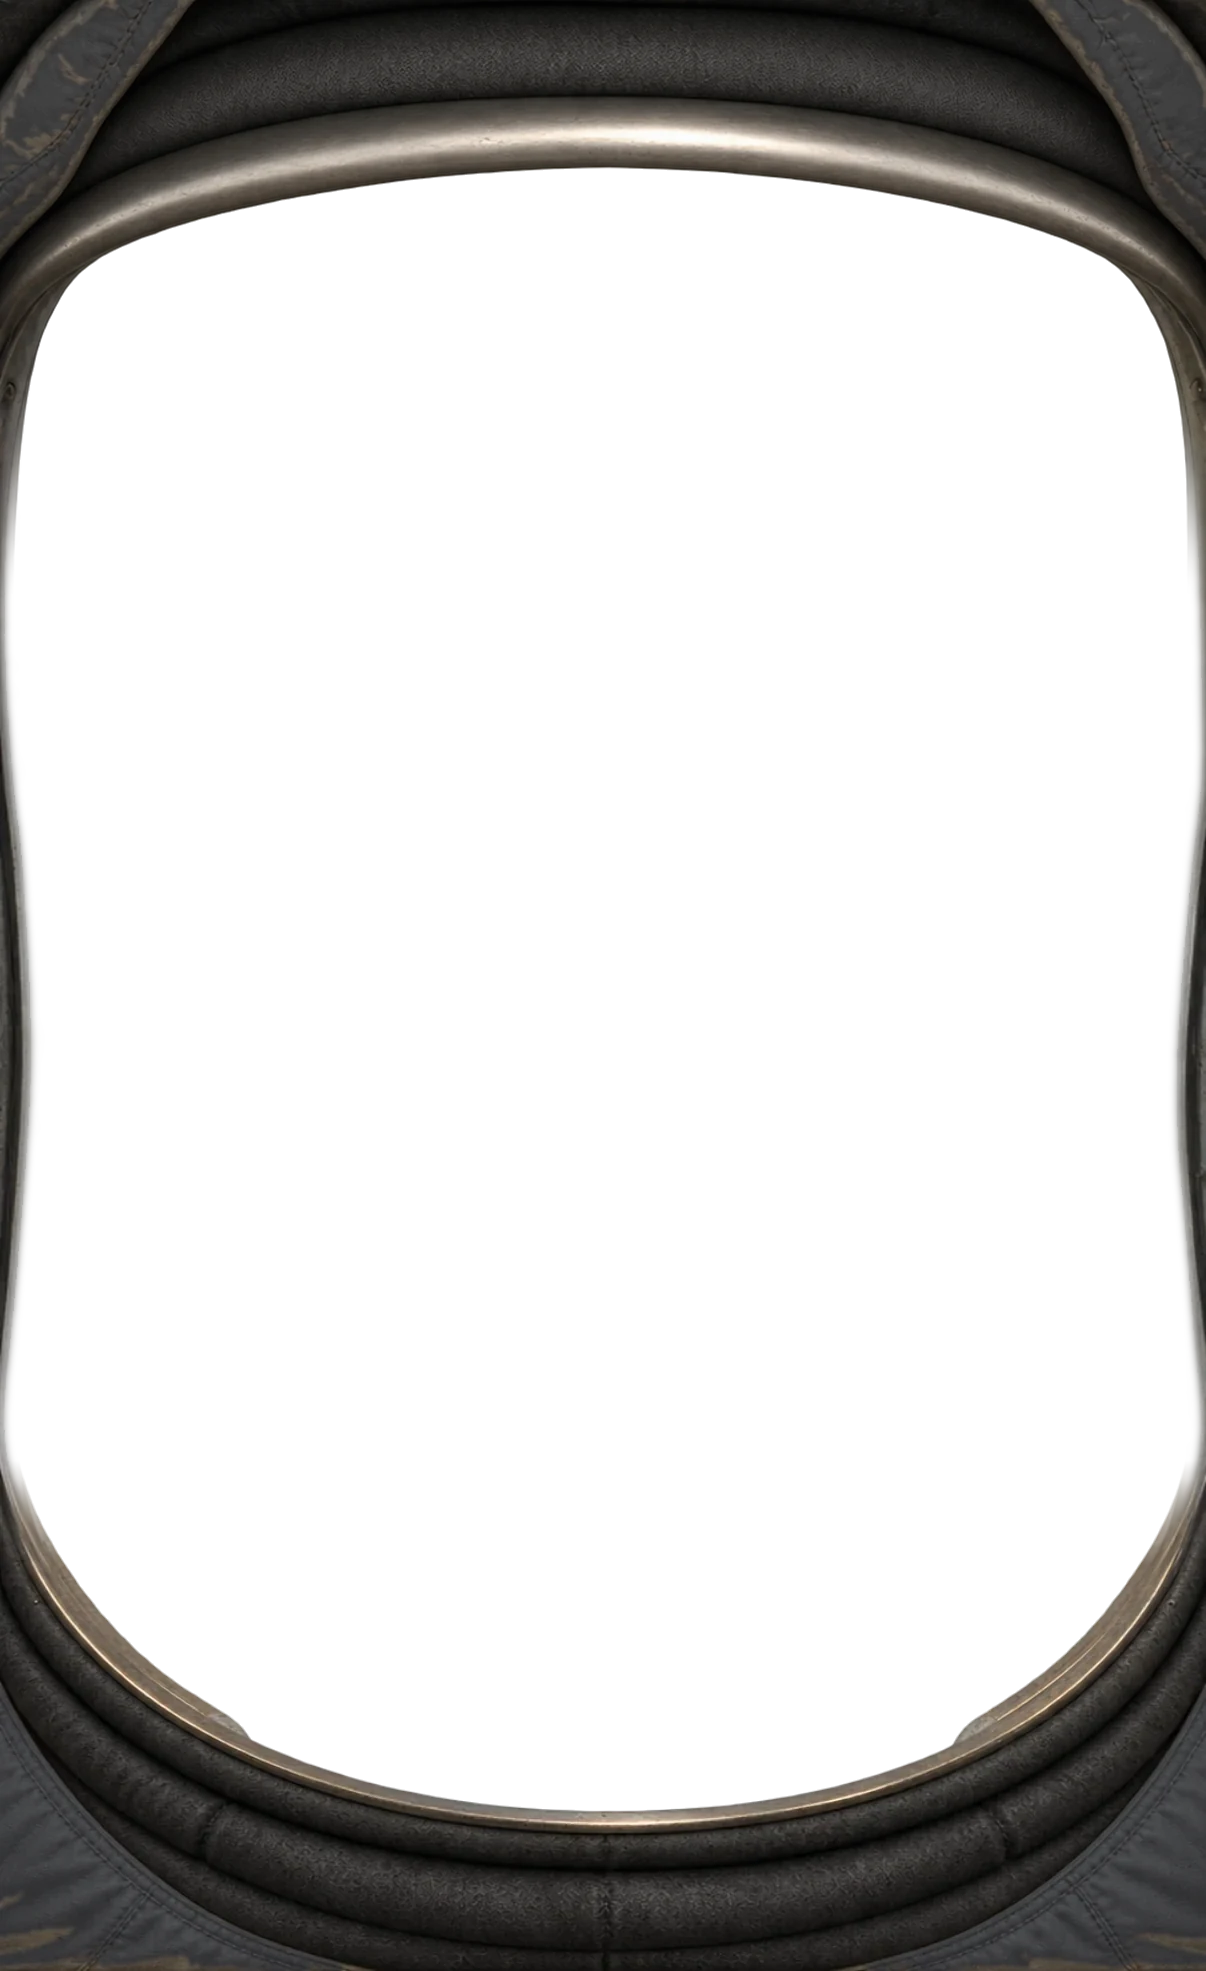
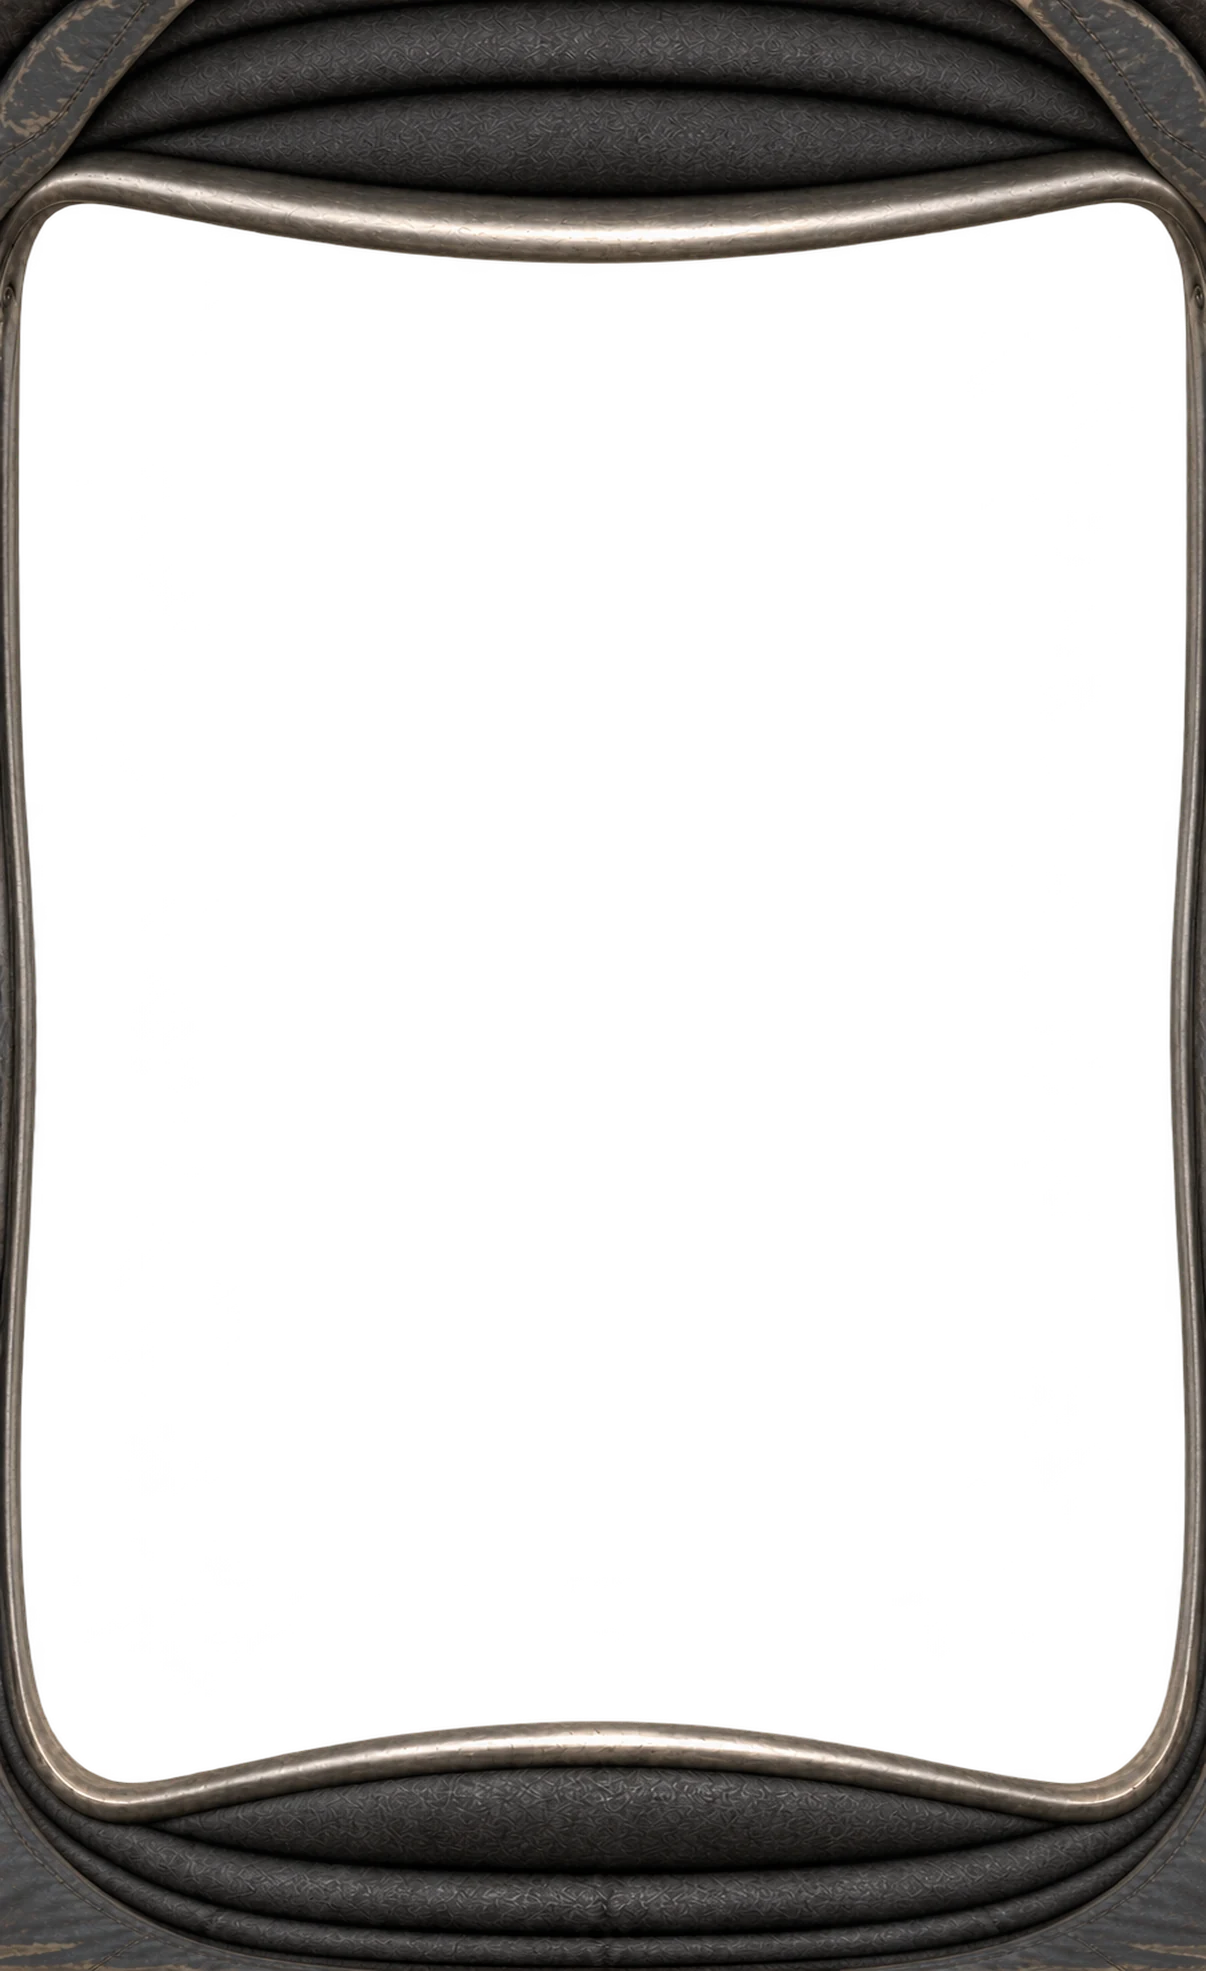
v1.0.88: The spacewalk's helmet as a wide view from inside draws it: the top rim bowing down (‿) and the bottom rim up (⌒), the sides straight (Codex J1); the right glove drawn whole round its handle to the wrist, as the new bottom rim showed its cut end; the key row under the rim fully covered (the

Changed region(s): [[0.0, 0.0, 1.0, 1.0]]

diff --git a/docs/Space-Oddity-상세기획서.md b/docs/Space-Oddity-상세기획서.md
@@ -662,6 +662,7 @@ v0.1.37, 눈으로 보지 못했던 것을 다시 찍어 보고 고친 것(`.pla
 - 2026-11-02에 우주멍 화면 왼쪽 위에 제목 로고를 작게(92px 폭) 넣었다(v0.4.61). 사용자 말: "우주멍 모드에서는 화면 상단 왼쪽에 조그맣게 로고 넣어줘".
 - 2026-11-18에 우주멍 시계, 잠들기 타이머, 배경화면 저장을 넣었다(v1.0.8). 우주멍 시계는 설정에서 켜며, 우주멍 동안 화면 위쪽에 시각과 날짜를 띄우고 화면 꺼짐을 막는다(Wake Lock). 시계는 1분마다 12픽셀 안에서 자리를 옮긴다. 잠들기는 배경 음악 칸의 단추로 15, 30, 60분을 고르며, 시간이 되면 음악과 화면이 60초에 걸쳐 잦아들고 어두워진다(검은 막 92%). 화면을 만지면 돌아온다. 배경화면은 사진 모드의 단추로, 보통 사진이 화면의 1.6배까지만 그리는 것과 달리 기기 해상도(3배까지, 한 변 4096픽셀까지)로 한 장을 그린다. "시계 자리 보기"는 잠금화면 시계가 덮는 자리를 점선으로 보인다. 시계 글씨는 세 모양(가는 글씨, 할머니 손글씨, 별빛)을 나란히 보인 뒤 사용자가 고른 할머니 수첩 손글씨(크림색)다. 코드는 GPT(Codex)가 짰고 번역과 검토는 Claude가 했다. 사용자 말: "5,6,7 해보자", "코딩은 gpt 시켜도 되지?", "나".
 - 2026-11-18에 우주멍 시계를 화면 왼쪽 위, 제목 바로 아래로 옮기고 시각과 날짜 줄을 각각 제목 폭(92픽셀)에 맞춰 글씨 크기를 정하게 했다. 우주멍 동안 우주멍 단추 옆에 배경 음악 켜기/끄기 단추를 둔다(v1.0.9). 사용자 말: "시간과 날짜를 왼쪽 상단, 제목 바로 아래로 옮기고, 폰트도 적당히 줄여서 폭을 맞춰", "우주멍에서는 배경음악 ON/OFF 버튼을 우주멍 버튼 옆에 그려줘". 날짜는 줄임 꼴로 쓴다: "11월 18일 (수)", "Wed, Nov 18", "11月18日(水)", "11月18日周三"(v1.0.10, 사용자 말: "줄임말로 쓰지").
+- 2026-11-25에 우주 유영의 헬멧 테를 다시 바꿨다(v1.0.88, assets/codex/mmu/order10.md, order11.md). 사용자가 게임 화면에 위 테는 ‿, 아래 테는 ⌒로 그려 보이며 "안에서 보면, 이렇게 되지않니?"라고 했다. 맞다: 게임은 넓은 시야각의 원근 투영이라, 머리를 둘러싼 고리는 정면이 가장 작고 옆으로 갈수록 벌어진다(광각으로 찍은 둥근 방의 천장 가장자리가 ‿). 앞서 내가 ⌒를 물은 것이 틀렸다. GPT가 위 ‿, 아래 ⌒의 J1(은근히)과 J2(뚜렷이)를 그렸고 J1을 골랐다. 새 아래 테가 오른손의 잘린 끝을 드러내어, 오른손을 손잡이를 쥔 장갑으로 손목까지 이어 그렸다(손 그림도 바뀜, 왼손과 압력계는 그대로). 단추 줄 자리는 완전히 막고, 화면 가운데의 옅은 비침은 지웠다. 사용자 말: "안에서 보면, 이렇게 되지않니?", "다시 맡겨", "J1로 오른손 이어 그리라고 해", "들여".
 - 2026-11-25에 "줄 하나 없이 우주 유영"의 헬멧 위쪽 테를 GPT(Codex)가 다시 그린 것으로 바꿨다(v1.0.87, assets/codex/mmu/order8.md, order9.md). 사용자가 "헬멧이 안에서 볼 때에 볼록해야하는데, 반대 같다"고 했다. 그림을 위아래로 비튼 세 시험과 첫 두 안(H1, H2)은 "셋 다 이상해", "오목해보여"였다. 휘는 모양은 ⌒ 그대로 두고, 금속 테를 굵은 둥근 관으로, 눈 쪽을 향한 아랫면이 밝게(아랫면 밝기 221, 윗면 61) 다시 그린 I1을 골랐다. 위쪽(y 620 위)만 바뀌고 양옆, 아래 테, 손, 압력계는 화소 하나 다르지 않다. 사용자 말: "gpt한테 다시 그리라고 해", "A", "I1 들여".
 - 2026-11-25에 오늘의 팁에서 금색 "오늘의 팁"을 윗줄에 따로 두고 팁 글은 아랫줄부터 쓰게 했다(v1.0.86). 한 줄로 붙어 "오늘의 팁 추천 우주멍 코스…"처럼 이어 읽혔다. 사용자 말: "오늘의 팁 추천. 우주멍 코스 … . 빠졌다", "개발해".
 - 2026-11-25에 코스에서 우주멍 시계 아래 뜨는 임무 줄("임무 2일째 · 멀어지는 중 · 031:31")의 글자를 14px → 17px로 키웠다(v1.0.85). 시계 아래 날짜 줄과 같은 크기다. 가장 긴 일본어 줄도 286px라 360폭 화면에 한 줄로 들어간다. 사용자 말: "글자 너무 작아", "개발해".
